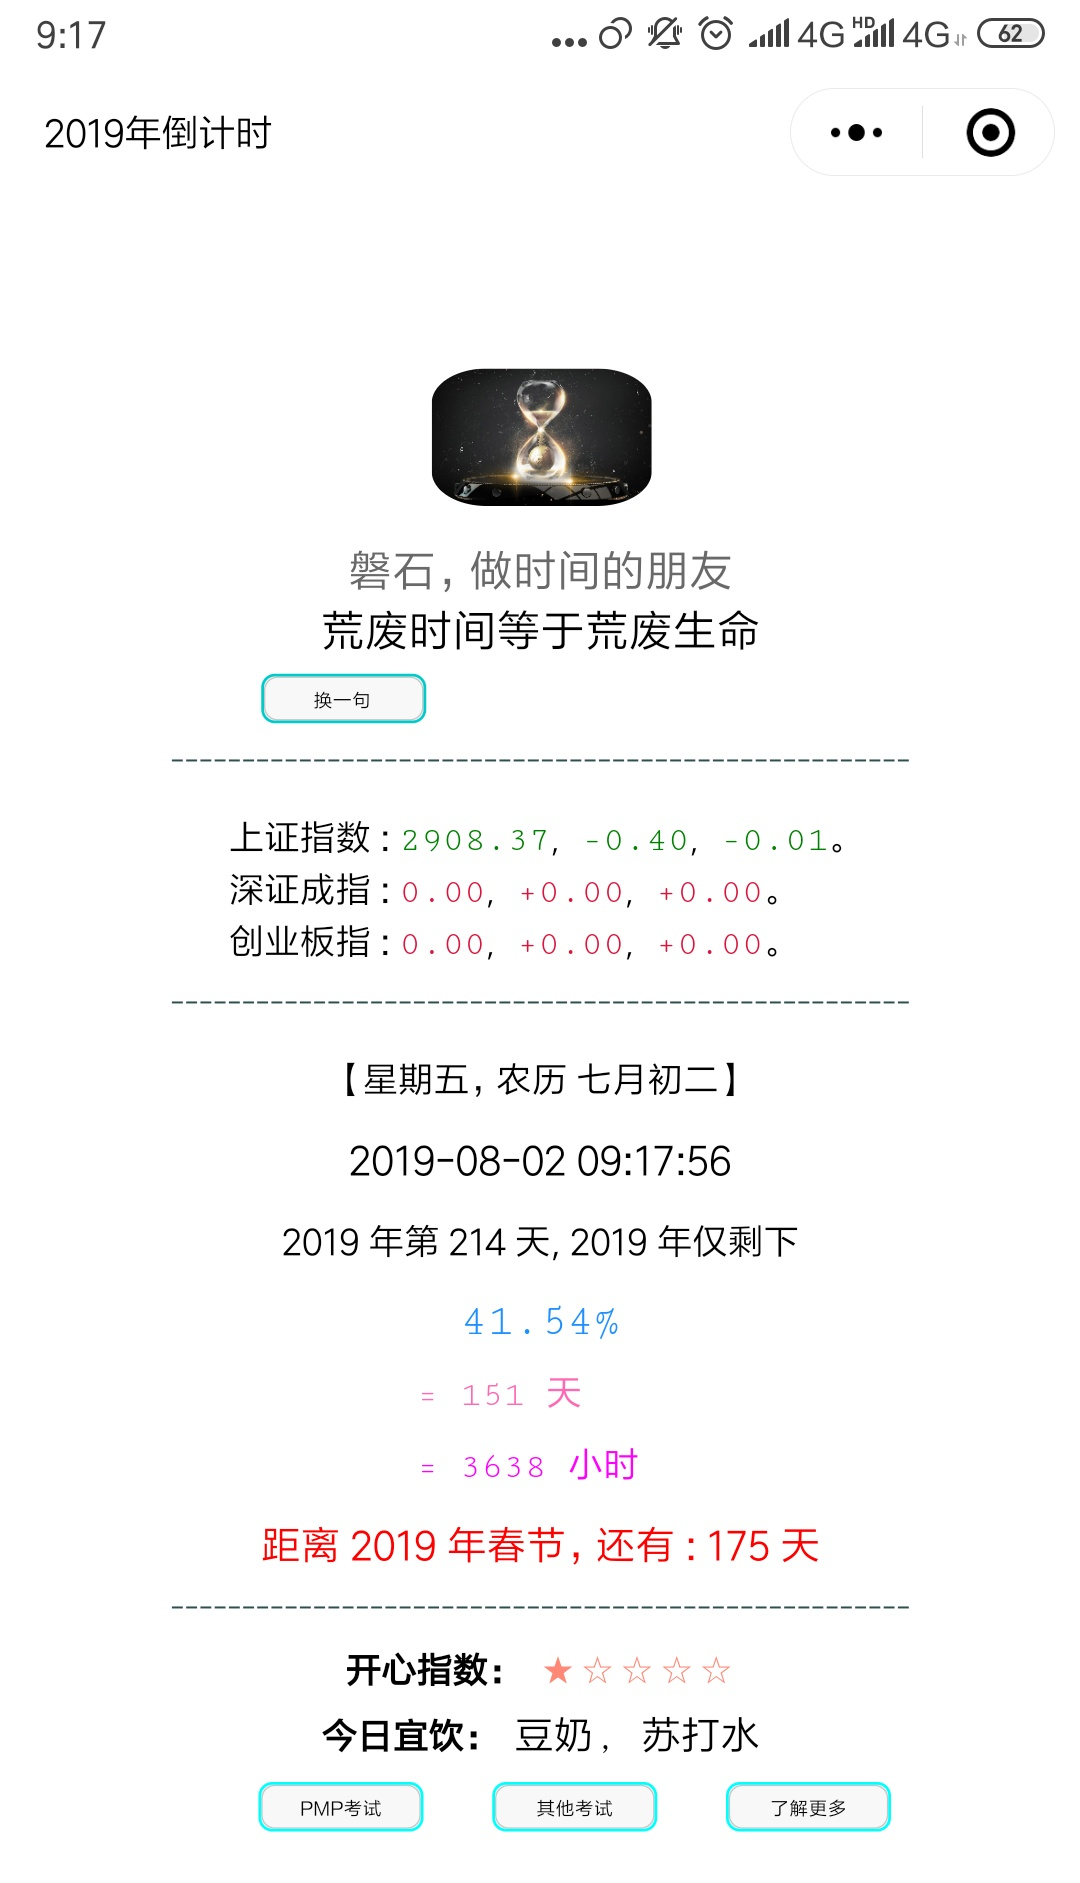
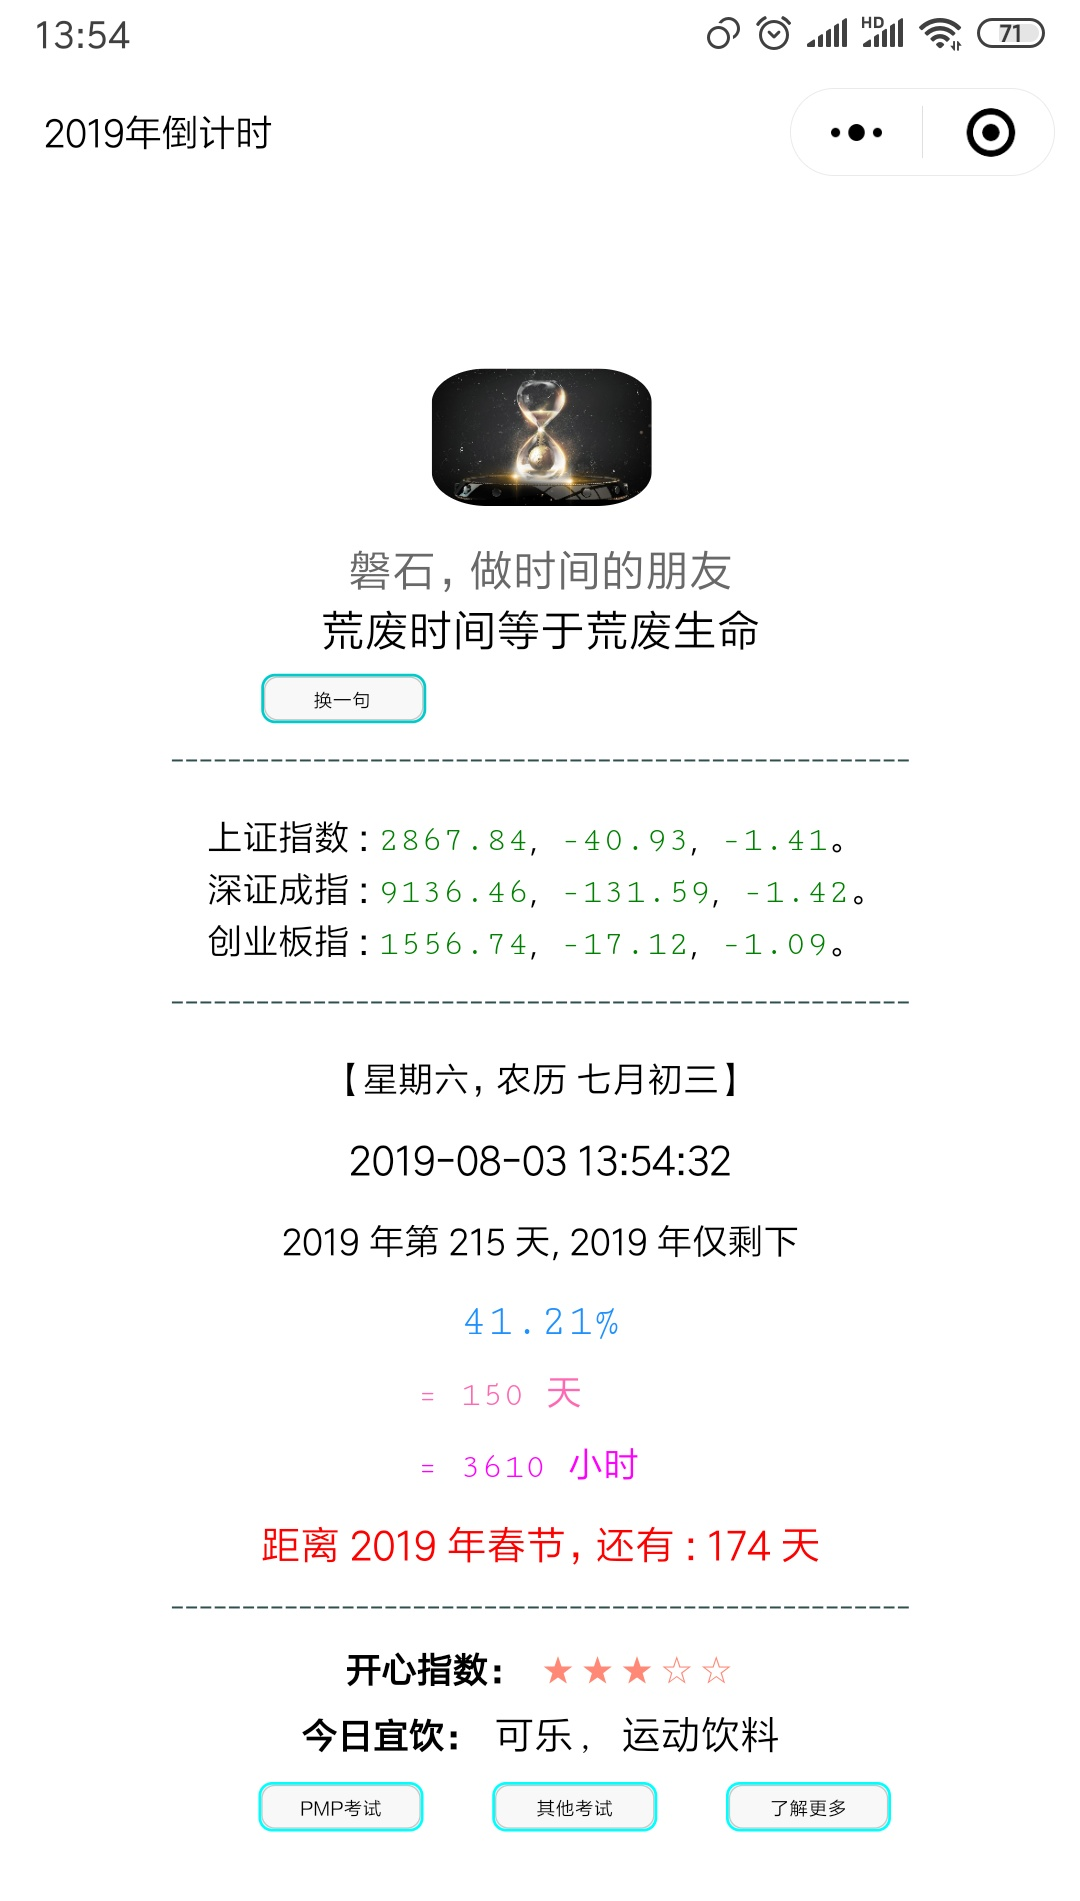
update 20190803-1

diff --git a/source/_posts/001_2-FD_my_life_records-2019.md b/source/_posts/001_2-FD_my_life_records-2019.md
@@ -1,5 +1,5 @@
 ---
-title: 坚持的力量之数据人生-2019年8月2日
+title: 坚持的力量之数据人生-2019年8月3日
 tags:
   - 数据人生
   - 参考模板
@@ -20,14 +20,14 @@ keywords:
   - 宽978高553
 photos:
   - '/images/001_2/photos.png'
-description: 今天：2019 年 8 月 2 日，2019 年仅剩下 151 天。坚持记录和分析生活中的数据、信息和事件，尊重历史数据、信息和事件，人生将会更美好。
-date: 2019-08-02 00:02:05
+description: 今天：2019 年 8 月 3 日，2019 年仅剩下 150 天。坚持记录和分析生活中的数据、信息和事件，尊重历史数据、信息和事件，人生将会更美好。
+date: 2019-08-03 00:02:05
 ---
 <script type="text/javascript" src="/js/src/bai.js"></script>
 
-### 坚持的力量之数据人生-2019年8月2日
+### 坚持的力量之数据人生-2019年8月3日
 ------
-> 今天：2019 年 8 月 2 日，2019 年仅剩下 151 天。坚持记录和分析生活中的数据、信息和事件，尊重历史数据、信息和事件，人生将会更美好。
+> 今天：2019 年 8 月 3 日，2019 年仅剩下 150 天。坚持记录和分析生活中的数据、信息和事件，尊重历史数据、信息和事件，人生将会更美好。
 >
 > 序言：坚持记录和分析生活中的数据、信息和事件，尊重历史数据、信息和事件，人生将会更美好。
 
@@ -67,15 +67,15 @@ date: 2019-08-02 00:02:05
 
 | 序号 |       名称                                            |  类型  | 开始/结束日期 | 总天数 |          备注                           |
 | :--: | :---------------------------------------------------: | :----: | :-----------: | :----: | :-------------------------------------: |
-|  1   | <font color="#FF0000" size=2>读书荐书第 4/4 更</font> | 倒计时 | 2019/10/01    |  60    | 开始时间：2019/7/1                      |
-|  2   | <font color="#FF0000" size=2>重要节点</font>          | 倒计时 | 2020/03/01    |  215   | 开始时间：2018/6/15 剩余 10 个月        |
-|  3   | <font color="#0000FF" size=2>来上海</font>            | 计时   | 2011/06/25    |  2960  | 第 8 年进行中                           |
-|  4   | <font color="#0000FF" size=2>莫名其妙的计时</font>    | 计时   | 2018/11/12    |  259   | 莫名其妙的计时，希望永远不会停 ！！！   |
-|  5   | <font color="#0000FF" size=2>坚持减肥-3               | 计时   | 2019/08/31    |  3     | 坚持减肥，目标 65 公斤，保持一个月      |
+|  1   | <font color="#FF0000" size=2>读书荐书第 4/4 更</font> | 倒计时 | 2019/10/01    |  59    | 开始时间：2019/7/1                      |
+|  2   | <font color="#FF0000" size=2>重要节点</font>          | 倒计时 | 2020/03/01    |  214   | 开始时间：2018/6/15 剩余 10 个月        |
+|  3   | <font color="#0000FF" size=2>来上海</font>            | 计时   | 2011/06/25    |  2961  | 第 8 年进行中                           |
+|  4   | <font color="#0000FF" size=2>莫名其妙的计时</font>    | 计时   | 2018/11/12    |  260   | 莫名其妙的计时，希望永远不会停 ！！！   |
+|  5   | <font color="#0000FF" size=2>坚持减肥-3               | 计时   | 2019/08/31    |  4     | 坚持减肥，目标 65 公斤，保持一个月      |
 |  6   | <font color="#FF00FF" size=2>博客总计博文</font>      | 计数   | 2018/08/01    |  204   | [博客](/archives) 博文总计数目          |
 |  7   | <font color="#FF00FF" size=2>读书心得札记</font>      | 计数   | 2018/05/26    |  69    | [读书心得笔记并做笔记](/tags/札记人生/) |
 |  8   | <font color="#FF00FF" size=2>五篇好文推荐</font>      | 计数   | 2018/10/24    |  50    | [美文推荐](/tags/美文推荐/)             |
-|  9   | <font color="#FF00FF" size=2>公众号更新</font>        | 计数   | 2018/12/01    |  82    | [微信公众号（4 篇删除）](https://mp.weixin.qq.com/s/xxIkfGMFU7BaCeCJtdrtDg) |
+|  9   | <font color="#FF00FF" size=2>公众号更新</font>        | 计数   | 2018/12/01    |  83    | [微信公众号（4 篇删除）](https://mp.weixin.qq.com/s/xxIkfGMFU7BaCeCJtdrtDg) |
 
 #### 2. ❤ 今天记账了吗？记了，✔。 ❤
 ##### 2.1 记账信息详情
@@ -83,11 +83,11 @@ date: 2019-08-02 00:02:05
 
 | 日期                                   | 记账新增记录 | 记账总记录 | 记账总天数 | 记账时间      | 备注     |
 | :------:                               | :------:     | :------:   | :------:   | :------:      | :------: |
-|<font color="#000000"> 20190729 </font> | 10           | 10556      | 3080       | 8 年零 151 天 | 无       |
 |<font color="#000000"> 20190730 </font> | 2            | 10558      | 3081       | 8 年零 152 天 | 无       |
 |<font color="#000000"> 20190731 </font> | 4            | 10562      | 3082       | 8 年零 153 天 | 无       |
 |<font color="#000000"> 20190801 </font> | 4            | 10566      | 3083       | 8 年零 154 天 | 无       |
 |<font color="#FF0000"> 20190802 </font> | 3            | 10569      | 3084       | 8 年零 155 天 | 无       |
+|<font color="#FF0000"> 20190803 </font> | 2            | 10571      | 3085       | 8 年零 156 天 | 无       |
 
 #### 3. 历史数据汇总
 ##### 3.1 已结束倒计时或计时数据

diff --git a/source/_posts/001_1-FD_2018_year_all_checker-2019.md b/source/_posts/001_1-FD_2018_year_all_checker-2019.md
@@ -1,5 +1,5 @@
 ---
-title: 2019年每日日常综合打卡-2019年8月2日
+title: 2019年每日日常综合打卡-2019年8月3日
 tags:
   - 数据人生
   - 参考模板
@@ -21,14 +21,14 @@ keywords:
   - 宽978高553
 photos:
   - '/images/001_1/photos.png'
-description: 今天：2019 年 8 月 2 日，2019 年仅剩下 151 天。每日打卡，8 月份针对每个任务打卡，慢慢来，一切都会更好的。
-date: 2019-08-02 00:01:01
+description: 今天：2019 年 8 月 3 日，2019 年仅剩下 150 天。每日打卡，8 月份针对每个任务打卡，慢慢来，一切都会更好的。
+date: 2019-08-03 00:01:01
 ---
 <script type="text/javascript" src="/js/src/bai.js"></script>
 
-### 2019年每日日常综合打卡-2019年8月2日
+### 2019年每日日常综合打卡-2019年8月3日
 ---
-> 今天：2019 年 8 月 2 日，2018 年仅剩下 151 天。每日打卡，8 月份针对每个任务打卡，慢慢来，一切都会更好的。
+> 今天：2019 年 8 月 3 日，2018 年仅剩下 150 天。每日打卡，8 月份针对每个任务打卡，慢慢来，一切都会更好的。
 ---
 
 #### 2019 年年历
@@ -53,7 +53,7 @@ date: 2019-08-02 00:01:01
 |:--:|:-----:|:-----:|:-----:|:-----:|:-----:|:-----:|:-----:|:-----:|:-----:|:-----:|:-----:|:-----:|
 |  1 |二 ⭕  |五 ⭕  |五 ⭕  |一 ⭕  |三 ⭕  |六 ⭕  |一 ⭕  |四 ⭕  |日     |二     |五     |日     |
 |  2 |三 ⭕  |六 ⭕  |六 ⭕  |二 ⭕  |四 ⭕  |日 ⭕  |二 ⭕  |五 ⭕  |一     |三     |六     |一     |
-|  3 |四 ⭕  |日 ⭕  |日 ⭕  |三 ⭕  |五 ⭕  |一 ⭕  |三 ⭕  |六     |二     |四     |日     |二     |
+|  3 |四 ⭕  |日 ⭕  |日 ⭕  |三 ⭕  |五 ⭕  |一 ⭕  |三 ⭕  |六 ⭕  |二     |四     |日     |二     |
 |  4 |五 ⭕  |一 ⭕  |一 ⭕  |四 ⭕  |六 ⭕  |二 ⭕  |四 ⭕  |日     |三     |五     |一     |三     |
 |  5 |六 ⭕  |二 ⭕  |二 ⭕  |五 ⭕  |日 ⭕  |三 ⭕  |五 ⭕  |一     |四     |六     |二     |四     |
 |  6 |日 ⭕  |三 ⭕  |三 ⭕  |六 ⭕  |一 ⭕  |四 ⭕  |六 ⭕  |二     |五     |日     |三     |五     |
@@ -91,7 +91,7 @@ date: 2019-08-02 00:01:01
 |:----------------------------------:|:---------:|:---------:|:---------:|:---------:|:---------:|:---------:|:---------:|
 |  1 <font color="#000000">四</font> | ⭕        | ⭕        | ⭕        | ⭕        | ❌         | ⭕        |           |
 |  2 <font color="#000000">五</font> | ⭕        | ⭕        | ⭕        | ⭕        | ⭕        | ⭕        |           |
-|  3 <font color="#FF0000">六</font> |           |           |           |           |           |           |           |
+|  3 <font color="#FF0000">六</font> | ⭕        | ⭕        | ⭕        | ⭕        | ⭕        | ⭕        |           |
 |  4 <font color="#FF0000">日</font> |           |           |           |           |           |           |           |
 |  5 <font color="#000000">一</font> |           |           |           |           |           |           |           |
 |  6 <font color="#000000">二</font> |           |           |           |           |           |           |           |
